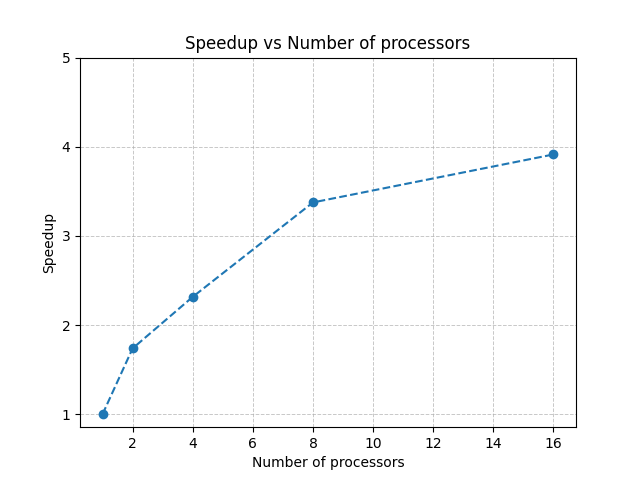
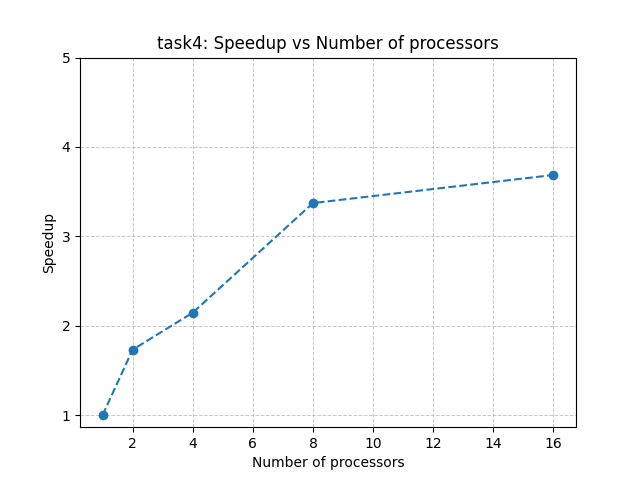
Completed task 5 and 6
Generated plots, wrote text in overleaf

diff --git a/plot_speedup.py b/plot_speedup.py
@@ -2,8 +2,11 @@ import pandas as pd
 import matplotlib.pyplot as plt
 import seaborn as sns
 import numpy as np
+import sys
 
-f = open("task4.txt", "r")
+task = sys.argv[1]
+
+f = open(task, "r")
 
 lines = f.readlines()
 f.close()
@@ -19,9 +22,9 @@ y = np.array(y)
 y = y[0]/y
 plt.plot(x,y, marker='o', linestyle='--')
 plt.grid(which='both', linestyle='--', linewidth=0.7, alpha=0.7)
-plt.yticks(np.arange(1,6))
+plt.yticks(np.arange(1, max(y)+1))
 plt.xlabel("Number of processors")
 plt.ylabel("Speedup")
-plt.title("Speedup vs Number of processors")
-plt.savefig("speedup.png")
+plt.title(f"{task[:-4]}: Speedup vs Number of processors")
+plt.savefig(f"{task[:-4]}.png")
 

diff --git a/simulate_parallel_dynamic.py b/simulate_parallel_dynamic.py
@@ -79,7 +79,7 @@ if __name__ == '__main__':
         all_interior_mask[i] = interior_mask
 
 
-    chunksize = max(N//num_processes,1)
+    chunksize = 1 # Keep chunksize as 1 for dynamic scheduling
     with multiprocessing.Pool(num_processes) as pool:
         all_u = pool.map(jacobi, zip(all_u0, all_interior_mask), chunksize=chunksize)
     
